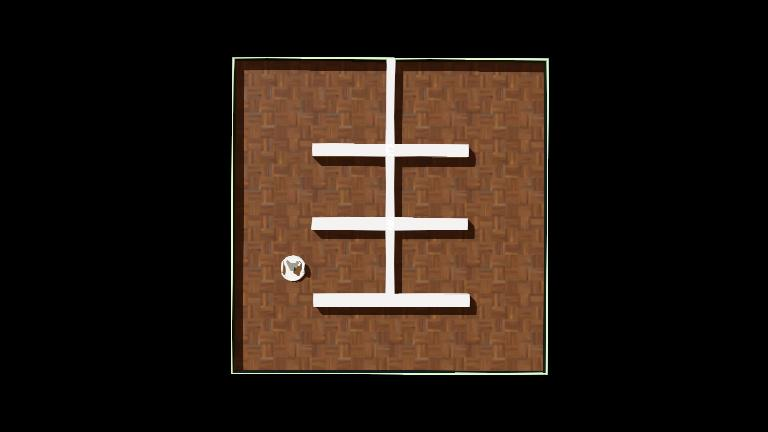
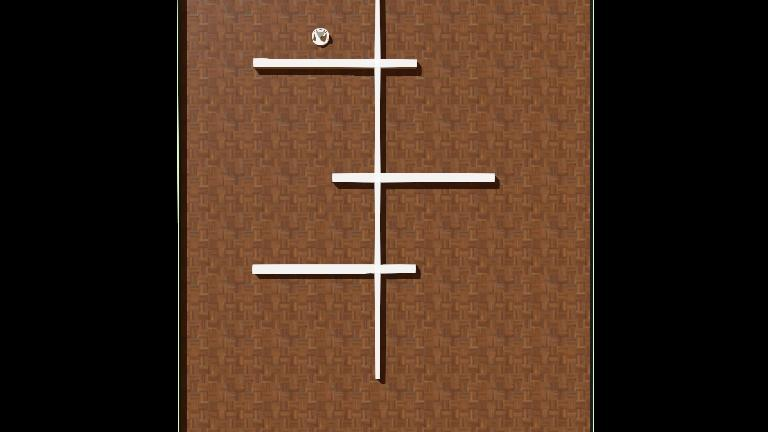
algoritmo exploración y mapa actualizado en webots

diff --git a/Webots/controllers/my_controller_Pololu3pi/my_controller_Pololu3pi.py b/Webots/controllers/my_controller_Pololu3pi/my_controller_Pololu3pi.py
@@ -49,6 +49,7 @@ class Slave(Robot):
         fGeneral = False
         self.angulo = 270
         self.dMin = 15 # Distancia minima del objeto en cm
+        self.rangoSenDis = 50 # Distancia máxima de sensado
 
         while self.step(self.timestep) != -1:
             if fGeneral:
@@ -60,7 +61,7 @@ class Slave(Robot):
                 
 
                 # Avanzar hacia adelante hasta determinar un cambio de trayectoria               
-                while (self.ds0_value > self.ds1_value or self.ds0_value > self.ds2_value) and (self.ds0_value > self.ds4_value or self.ds0_value > self.ds5_value):
+                while (self.ds0_value >= self.ds1_value or self.ds1_value > self.dMin) and (self.ds0_value >= self.ds5_value or self.ds5_value > self.dMin):
                     self.DatosSensores()
 
                     # Otras condiciones para cambiar de giro 
@@ -69,7 +70,7 @@ class Slave(Robot):
                     # Freno de emergencia
                     if self.ds0_value < self.dMin:
                         break
-
+                    
                     self.left_motor.setVelocity(10)
                     self.right_motor.setVelocity(10)
                 
@@ -77,7 +78,7 @@ class Slave(Robot):
                     # Webots is about to quit.
                     if self.step(self.timestep) == -1:
                         break
-
+                
                 self.left_motor.setVelocity(0)
                 self.right_motor.setVelocity(0)
                 """
@@ -171,23 +172,38 @@ class Slave(Robot):
             if self.step(self.timestep) == -1:
                 break
     def DesicionGiro(self):
+        
         # Función para determinar la siguiente acción de giro
-        if self.ds1_value > self.ds0_value and self.ds1_value > self.ds5_value and self.ds2_value > self.dMin +10:
+        if self.ds1_value >= self.ds0_value and self.ds1_value >= self.ds5_value and self.ds2_value > self.dMin +10:
             self.angulo = self.angulo - 45
             print("giro 1")
-        elif self.ds5_value > self.ds0_value and self.ds5_value > self.ds1_value and self.ds4_value > self.dMin +10:
+        elif self.ds5_value >= self.ds0_value and self.ds5_value >= self.ds1_value and self.ds4_value >= self.dMin +10:
             self.angulo = self.angulo + 45
             print("giro 2")
-        elif self.ds3_value > self.ds0_value and self.ds3_value > self.ds1_value and self.ds3_value > self.ds2_value and self.ds3_value > self.ds4_value and self.ds3_value > self.ds5_value:
-            self.angulo = self.angulo + 180
-            print("giro 3")
+        
         elif self.ds1_value <= self.dMin+3:
-            print("giro 4")
+            print("giro 3")
             self.angulo = self.angulo + 45
             self.RotControl(self.angulo)
             self.DatosSensores()
             if self.ds5_value < 30:
-                while self.ds0_value > self.dMin:
+                while self.ds0_value > self.dMin and self.ds0_value > self.ds1_value and self.ds0_value > self.ds5_value :
+                    self.DatosSensores()
+                    self.left_motor.setVelocity(10)
+                    self.right_motor.setVelocity(10)
+                    print("while de giro 3")
+                    # Perform a simulation step, quit the loop when
+                    # Webots is about to quit.
+                    if self.step(self.timestep) == -1:
+                        break
+
+        elif self.ds5_value <= self.dMin+3:
+            print("giro 4")
+            self.angulo = self.angulo - 45
+            self.RotControl(self.angulo)
+            self.DatosSensores()
+            if self.ds5_value < 30:
+                while self.ds0_value > self.dMin and self.ds0_value > self.ds1_value and self.ds0_value > self.ds5_value:
                     self.DatosSensores()
                     self.left_motor.setVelocity(10)
                     self.right_motor.setVelocity(10)
@@ -197,24 +213,17 @@ class Slave(Robot):
                     if self.step(self.timestep) == -1:
                         break
 
-        elif self.ds5_value <= self.dMin+3:
+        elif self.ds3_value > self.ds0_value and self.ds3_value > self.ds1_value and self.ds3_value > self.ds2_value and self.ds3_value > self.ds4_value and self.ds3_value > self.ds5_value:
+            self.angulo = self.angulo + 180
             print("giro 5")
-            self.angulo = self.angulo - 45
-            self.RotControl(self.angulo)
-            self.DatosSensores()
-            if self.ds5_value < 30:
-                while self.ds0_value > self.dMin:
-                    self.DatosSensores()
-                    self.left_motor.setVelocity(10)
-                    self.right_motor.setVelocity(10)
-                    print("while de giro 5")
-                    # Perform a simulation step, quit the loop when
-                    # Webots is about to quit.
-                    if self.step(self.timestep) == -1:
-                        break
+        
+        elif self.ds4_value > self.ds0_value and self.ds4_value > self.ds1_value and self.ds4_value > self.ds2_value and self.ds4_value > self.ds5_value:
+            self.angulo = self.angulo + 90
+            print("giro 6")
 
-
-
+        elif self.ds2_value > self.ds0_value and self.ds2_value > self.ds1_value and self.ds2_value > self.ds4_value and self.ds2_value > self.ds5_value:
+            self.angulo = self.angulo - 90
+            print("giro 7")
             
 controller = Slave()
 controller.run()

diff --git a/Webots/controllers/my_controller_Pololu3pi/slave.py b/Webots/controllers/my_controller_Pololu3pi/slave.py
@@ -1,0 +1,98 @@
+# Copyright 1996-2022 Cyberbotics Ltd.
+#
+# Licensed under the Apache License, Version 2.0 (the "License");
+# you may not use this file except in compliance with the License.
+# You may obtain a copy of the License at
+#
+#     http://www.apache.org/licenses/LICENSE-2.0
+#
+# Unless required by applicable law or agreed to in writing, software
+# distributed under the License is distributed on an "AS IS" BASIS,
+# WITHOUT WARRANTIES OR CONDITIONS OF ANY KIND, either express or implied.
+# See the License for the specific language governing permissions and
+# limitations under the License.
+
+"""
+This controller gives to its robot the following behavior:
+According to the messages it receives, the robot change its
+behavior.
+"""
+
+from controller import AnsiCodes, Robot
+from common import common_print
+
+
+class Enumerate(object):
+    def __init__(self, names):
+        for number, name in enumerate(names.split()):
+            setattr(self, name, number)
+
+
+class Slave(Robot):
+    Mode = Enumerate('STOP MOVE_FORWARD AVOIDOBSTACLES TURN')
+    timeStep = 32
+    maxSpeed = 10.0
+    mode = Mode.AVOIDOBSTACLES
+    motors = []
+    distanceSensors = []
+
+    def boundSpeed(self, speed):
+        return max(-self.maxSpeed, min(self.maxSpeed, speed))
+
+    def __init__(self):
+        super(Slave, self).__init__()
+        self.mode = self.Mode.AVOIDOBSTACLES
+        self.camera = self.getDevice('camera')
+        self.camera.enable(4 * self.timeStep)
+        self.receiver = self.getDevice('receiver')
+        self.receiver.enable(self.timeStep)
+        self.motors.append(self.getDevice("left wheel motor"))
+        self.motors.append(self.getDevice("right wheel motor"))
+        self.motors[0].setPosition(float("inf"))
+        self.motors[1].setPosition(float("inf"))
+        self.motors[0].setVelocity(0.0)
+        self.motors[1].setVelocity(0.0)
+        for dsnumber in range(0, 2):
+            self.distanceSensors.append(self.getDevice('ds' + str(dsnumber)))
+            self.distanceSensors[-1].enable(self.timeStep)
+
+    def run(self):
+        while True:
+            # Read the supervisor order.
+            if self.receiver.getQueueLength() > 0:
+                message = self.receiver.getString()
+                self.receiver.nextPacket()
+                print('I should ' + AnsiCodes.RED_FOREGROUND + message + AnsiCodes.RESET + '!')
+                if message == 'avoid obstacles':
+                    self.mode = self.Mode.AVOIDOBSTACLES
+                elif message == 'move forward':
+                    self.mode = self.Mode.MOVE_FORWARD
+                elif message == 'stop':
+                    self.mode = self.Mode.STOP
+                elif message == 'turn':
+                    self.mode = self.Mode.TURN
+            delta = self.distanceSensors[0].getValue() - self.distanceSensors[1].getValue()
+            speeds = [0.0, 0.0]
+
+            # Send actuators commands according to the mode.
+            if self.mode == self.Mode.AVOIDOBSTACLES:
+                speeds[0] = self.boundSpeed(self.maxSpeed / 2 + 0.1 * delta)
+                speeds[1] = self.boundSpeed(self.maxSpeed / 2 - 0.1 * delta)
+            elif self.mode == self.Mode.MOVE_FORWARD:
+                speeds[0] = self.maxSpeed
+                speeds[1] = self.maxSpeed
+            elif self.mode == self.Mode.TURN:
+                speeds[0] = self.maxSpeed / 2
+                speeds[1] = -self.maxSpeed / 2
+            self.motors[0].setVelocity(speeds[0])
+            self.motors[1].setVelocity(speeds[1])
+
+            # Perform a simulation step, quit the loop when
+            # Webots is about to quit.
+            if self.step(self.timeStep) == -1:
+                break
+
+
+controller = Slave()
+common_print('slave')
+controller.run()

diff --git a/Webots/controllers/my_controller_Pololu3pi/driver.py b/Webots/controllers/my_controller_Pololu3pi/driver.py
@@ -1,0 +1,91 @@
+# Copyright 1996-2022 Cyberbotics Ltd.
+#
+# Licensed under the Apache License, Version 2.0 (the "License");
+# you may not use this file except in compliance with the License.
+# You may obtain a copy of the License at
+#
+#     http://www.apache.org/licenses/LICENSE-2.0
+#
+# Unless required by applicable law or agreed to in writing, software
+# distributed under the License is distributed on an "AS IS" BASIS,
+# WITHOUT WARRANTIES OR CONDITIONS OF ANY KIND, either express or implied.
+# See the License for the specific language governing permissions and
+# limitations under the License.
+
+"""
+This controller gives to its node the following behavior:
+Listen the keyboard. According to the pressed key, send a
+message through an emitter or handle the position of Robot1.
+"""
+
+from controller import Supervisor
+from common import common_print
+
+
+class Driver (Supervisor):
+    timeStep = 128
+    x = -0.3
+    y = -0.1
+    translation = [x, y, 0]
+
+    def __init__(self):
+        super(Driver, self).__init__()
+        self.emitter = self.getDevice('emitter')
+        robot = self.getFromDef('ROBOT1')
+        self.translationField = robot.getField('translation')
+        self.keyboard.enable(Driver.timeStep)
+        self.keyboard = self.getKeyboard()
+
+    def run(self):
+        self.displayHelp()
+        previous_message = ''
+
+        # Main loop.
+        while True:
+            # Deal with the pressed keyboard key.
+            k = self.keyboard.getKey()
+            message = ''
+            if k == ord('A'):
+                message = 'avoid obstacles'
+            elif k == ord('F'):
+                message = 'move forward'
+            elif k == ord('S'):
+                message = 'stop'
+            elif k == ord('T'):
+                message = 'turn'
+            elif k == ord('I'):
+                self.displayHelp()
+            elif k == ord('G'):
+                translationValues = self.translationField.getSFVec3f()
+                print('ROBOT1 is located at (' + str(translationValues[0]) + ',' + str(translationValues[1]) + ')')
+            elif k == ord('R'):
+                print('Teleport ROBOT1 at (' + str(self.x) + ',' + str(self.y) + ')')
+                self.translationField.setSFVec3f(self.translation)
+
+            # Send a new message through the emitter device.
+            if message != '' and message != previous_message:
+                previous_message = message
+                print('Please, ' + message)
+                self.emitter.send(message.encode('utf-8'))
+
+            # Perform a simulation step, quit the loop when
+            # Webots is about to quit.
+            if self.step(self.timeStep) == -1:
+                break
+
+    def displayHelp(self):
+        print(
+            'Commands:\n'
+            ' I for displaying the commands\n'
+            ' A for avoid obstacles\n'
+            ' F for move forward\n'
+            ' S for stop\n'
+            ' T for turn\n'
+            ' R for positioning ROBOT1 at (-0.3,-0.1)\n'
+            ' G for knowing the (x,y) position of ROBOT1'
+        )
+
+
+controller = Driver()
+common_print('driver')
+controller.run()
